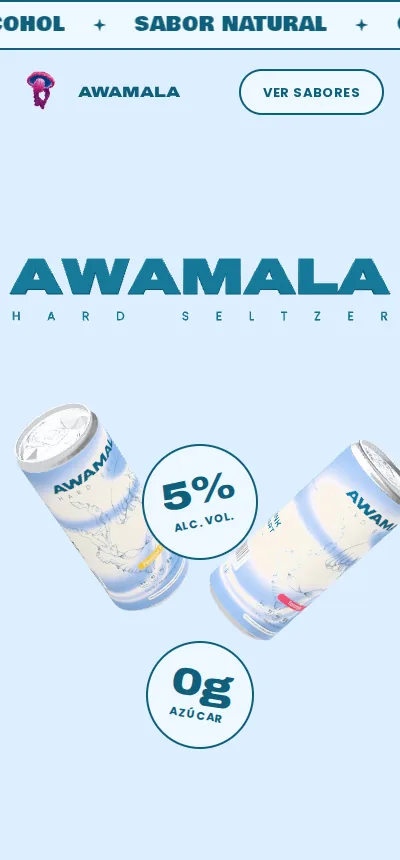
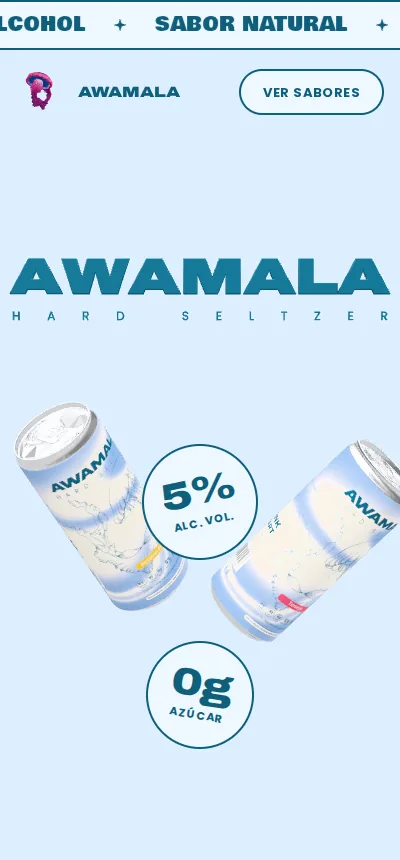
AWAMALA: portada proporcional en pantallas anchas y ajustes
- Logo, stickers y portada crecen con el ancho de la pantalla, con la
  misma proporción que en ventanas de ~1120 px
- Burbujas se reacomodan al cambiar el tamaño de la ventana
- Borde más grueso en "Dónde comprar" e Instagram en pantallas angostas
- Capturas de la galería actualizadas

Claude-Session: https://claude.ai/code/session_01VQkAGi9kU4y9DGeEXDPXZg

diff --git a/awamala/index.html b/awamala/index.html
@@ -67,10 +67,11 @@ nav.top{display:flex;align-items:center;justify-content:space-between;gap:12px;p
 .cta:hover{background:var(--violet)}
 
 /* ---- portada ---- */
-.hero{position:relative;height:clamp(620px,100svh,940px)}
+.hero{position:relative;height:clamp(620px,max(100svh,64vw),1500px)}   /* en pantallas anchas la portada guarda la proporción */
 .hero h1{margin:0}
 .slot{position:absolute;pointer-events:none}
-.logo-slot{left:50%;top:16%;transform:translateX(-50%);width:min(902px,94vw);aspect-ratio:6.2/1}
+.logo-slot{left:50%;top:16%;transform:translateX(-50%);width:max(min(902px,94vw),min(80.7vw,1500px));   /* crece con el ancho, igual proporción que a ~1120 px */
+  aspect-ratio:6.2/1}
 .logo-fallback{display:none;text-align:center;color:var(--teal)}
 .no3d .logo-fallback{display:block}
 .logo-fallback b{display:block;font:900 clamp(44px,9vw,120px)/.9 var(--display);font-stretch:125%}
@@ -78,17 +79,17 @@ nav.top{display:flex;align-items:center;justify-content:space-between;gap:12px;p
 .can-slot-hero{width:clamp(150px,19vw,300px);aspect-ratio:1/1}
 #slot-hero-passion{left:13%;top:36%}
 #slot-hero-toronja{right:13%;top:39%}
-.hero-copy{position:absolute;left:50%;top:auto;bottom:22px;transform:translateX(-50%);width:min(440px,calc(100% - 32px));display:flex;flex-direction:column;align-items:center;gap:18px;text-align:center}
-.hero-copy p{margin:0;color:var(--jelly);font:500 clamp(17px,1.6vw,22px)/1.35 var(--body);letter-spacing:-.01em;text-wrap:balance}
+.hero-copy{position:absolute;left:50%;top:auto;bottom:22px;transform:translateX(-50%);width:min(max(440px,40vw),calc(100% - 32px));display:flex;flex-direction:column;align-items:center;gap:18px;text-align:center}
+.hero-copy p{margin:0;color:var(--jelly);font:500 clamp(17px,1.75vw,30px)/1.35 var(--body);letter-spacing:-.01em;text-wrap:balance}
 .hero-copy .row{display:flex;gap:10px;flex-wrap:wrap;justify-content:center}
 .pill.ig{border:2px solid var(--teal);background:var(--ice);color:var(--teal)}
 .pill.ig:hover{background:var(--teal);color:var(--ice)}
 .sticker{position:absolute;border:2px solid var(--teal);background:var(--ice);color:var(--teal);border-radius:1600px;display:flex;flex-direction:column;align-items:center;justify-content:center;text-align:center;pointer-events:none}
-.sticker b{font:900 52px/.85 var(--display);font-stretch:125%}
-.sticker small{font:700 14px/1 var(--body);letter-spacing:.08em;margin-top:8px}
-.s-alc{width:170px;height:170px;left:30%;top:52%;transform:translateX(-50%) rotate(-12deg)}
-.s-az{width:158px;height:158px;left:70%;top:43%;transform:translateX(-50%) rotate(9deg)}
-.s-cal{padding:18px 30px;left:50%;top:38%;transform:translateX(-50%) rotate(-5deg);flex-direction:row;font:700 22px/1 var(--body);letter-spacing:.05em}
+.sticker b{font:900 clamp(38px,4.65vw,84px)/.85 var(--display);font-stretch:125%}
+.sticker small{font:700 clamp(11px,1.25vw,22px)/1 var(--body);letter-spacing:.08em;margin-top:8px}
+.s-alc{width:clamp(130px,15.2vw,270px);height:clamp(130px,15.2vw,270px);left:30%;top:52%;transform:translateX(-50%) rotate(-12deg)}
+.s-az{width:clamp(120px,14.1vw,250px);height:clamp(120px,14.1vw,250px);left:70%;top:43%;transform:translateX(-50%) rotate(9deg)}
+.s-cal{padding:clamp(14px,1.6vw,28px) clamp(22px,2.7vw,46px);left:50%;top:41%;transform:translateX(-50%) rotate(-5deg);flex-direction:row;font:700 clamp(17px,1.97vw,34px)/1 var(--body);letter-spacing:.05em}
 @media (max-width:760px){
   .s-alc{transform:rotate(-12deg)}
   .s-az{transform:rotate(9deg)}
@@ -108,7 +109,7 @@ nav.top{display:flex;align-items:center;justify-content:space-between;gap:12px;p
 /* ---- sabores ---- */
 .flavors{padding-block:clamp(80px,10vw,140px) clamp(90px,11vw,150px);padding-inline:clamp(16px,4vw,64px)}
 .flavors .wrap{max-width:1312px;margin:0 auto;display:grid;grid-template-columns:minmax(0,1fr) auto;gap:clamp(40px,5vw,80px);align-items:end}
-@media (max-width:1040px){.flavors .wrap{grid-template-columns:minmax(0,1fr)}.copy .chips,.copy .row{justify-content:center}}
+@media (max-width:1040px){.flavors .wrap{grid-template-columns:minmax(0,1fr)}.copy .chips,.copy .row{justify-content:center}.copy .row .pill.ig{border-width:3px}}
 .copy{position:relative;display:flex;flex-direction:column;gap:28px;min-width:0;container-type:inline-size}
 .copy .jelly{position:absolute;left:18%;top:-40px;width:min(520px,70%);z-index:-1;pointer-events:none;transition:transform 1.5s cubic-bezier(.16,.9,.25,1)}
 .jelly .bob{position:relative;animation:float 7s ease-in-out infinite}
@@ -282,7 +283,13 @@ footer .credits a:hover{color:var(--ice)}
   var W = 0, H = 0, dpr = 1, list = [], lastY = scrollY, last = performance.now(), fizzAcc = 0;
   var streams = [];
   function size(){
+    var oW = W, oH = H;
     dpr = Math.min(devicePixelRatio || 1, 2); W = cv.clientWidth || innerWidth; H = cv.clientHeight || innerHeight;
+    /* al cambiar el tamaño, las burbujas que ya están en pantalla se reacomodan en proporción */
+    if (oW > 0 && oH > 0 && (oW !== W || oH !== H)) {
+      var sx = W / oW, sy = H / oH;
+      for (var k = 0; k < list.length; k++) { list[k].x *= sx; list[k].y *= sy; }
+    }
     cv.width = Math.round(W * dpr); cv.height = Math.round(H * dpr); ctx.setTransform(dpr, 0, 0, dpr, 0, 0);
     streams = []; var n = Math.max(6, Math.round(W / 70));
     for (var i = 0; i < n; i++) streams.push((i + 0.2 + Math.random() * 0.6) / n);   /* puntos de burbujeo repartidos a lo ancho */
@@ -375,7 +382,7 @@ logoScene.add(new THREE.HemisphereLight(0xffffff, 0xb9d7ef, 0.9), key.clone(), r
 renderer.autoClear = false;
 
 let W = innerWidth, H = innerHeight;
-function resize(){ W = document.documentElement.clientWidth || innerWidth; H = document.documentElement.clientHeight || innerHeight; renderer.setSize(W, H, false);   /* ancho visible real, sin la barra de desplazamiento */ cam.aspect = W / H; cam.updateProjectionMatrix(); }
+function resize(){ W = document.documentElement.clientWidth || innerWidth; H = innerHeight; renderer.setSize(W, H, false);   /* ancho visible real, sin la barra de desplazamiento */ cam.aspect = W / H; cam.updateProjectionMatrix(); }
 addEventListener('resize', resize); resize();
 
 const TAN = Math.tan(THREE.MathUtils.degToRad(FOV / 2));
@@ -514,7 +521,7 @@ let t = 0;
 function frame(){
   const dt = Math.min(clock.getDelta(), 0.05);
   t += reduce ? dt * 0.15 : dt;
-  if (document.documentElement.clientWidth !== W || document.documentElement.clientHeight !== H) resize();
+  if (document.documentElement.clientWidth !== W || innerHeight !== H) resize();
 
   if (logo) {
     const r = rect('slot-logo');
